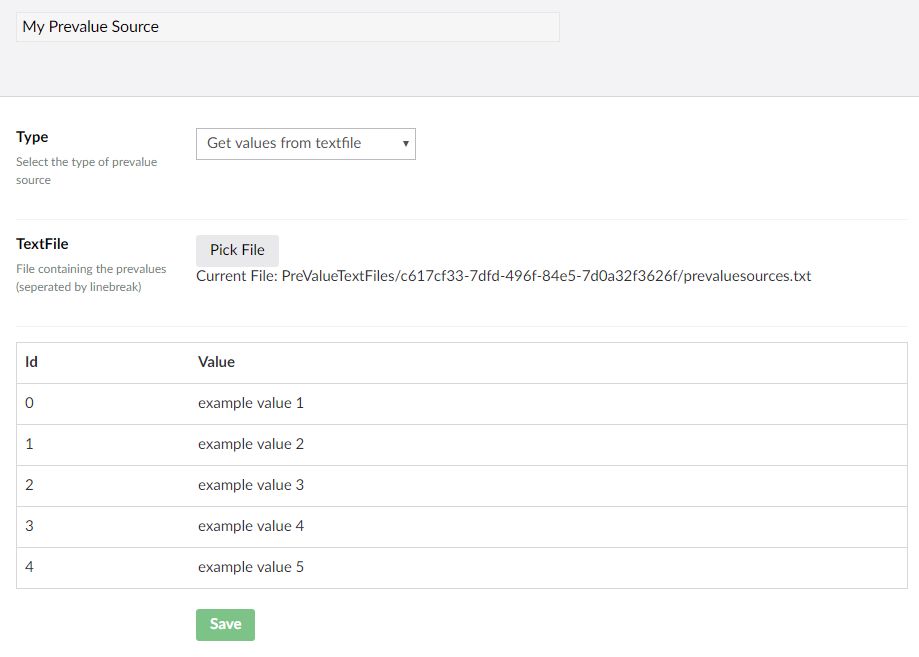
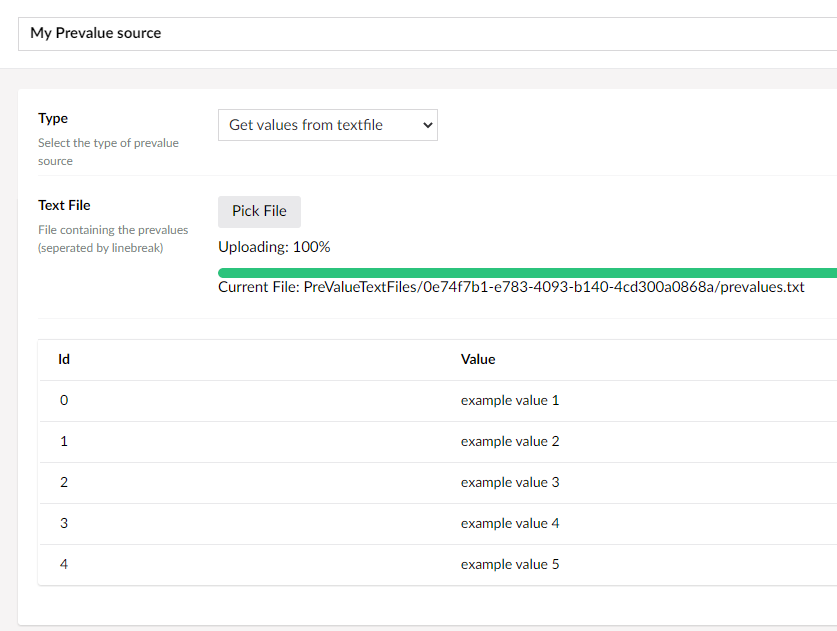
Updated article for v9

diff --git a/Add-ons/UmbracoForms/Editor/Defining-and-Attaching-Prevaluesources/index.md b/Add-ons/UmbracoForms/Editor/Defining-and-Attaching-Prevaluesources/index.md
@@ -1,32 +1,34 @@
 ---
 versionFrom: 7.0.0
+versionTo: 9.0.0
 ---
 
-# Defining and attaching prevalue sources
+# Defining and Attaching Prevalue Sources
 
-Prevalue sources are a way to pre-define and/or retrieve a list of items from a certain source. They can be used in any fieldtypes that include some kind of list, like Dropdown and Multiple / Single Choice lists.
+Prevalue sources are a way to pre-define and/or retrieve a list of items from a certain source. They can be added in any field types that include some kind of list like Dropdown and Multiple/Single Choice lists.
 
-## Setting up a prevalue source
+## Setting up a Prevalue Source
 
-Prevalue sources can be managed in the corresponding part of the Umbraco Forms section
+Prevalue sources can be managed in the **Prevalue sources** folder available in the **Forms** section.
 
 ![Prevalue source tree](images/prevaluesourcetree.png)
 
-Right-click the prevalue source tree and select create. You will see a new page where you'll need to setup and configure your prevalue source.
+To set a prevalue source:
 
-After setting a name, you need to select the type of prevalue source you'll want to use. An overview of the different default types can be found in the [Prevalue source types](Prevalue-source-types) article.
+1. Navigate to the Forms section.
+2. Right-click the **Prevalue sources** folder and select **Create**.
+3. A new page opens in the right-side of the editor where you'll need to setup and configure your prevalue source.
+4. Enter a **Name**.
+5. Select the type of prevalue source from the **Type** drop-down. For more information on the different default types, see the [Overview of the Prevalue Source Types](Prevalue-source-types) article.
+    ![Choose type](images/choosetype.png)
 
-![Choose type](images/choosetype.png)
+### Configuring the Prevalue Source
 
-### Configure the prevalue source
+Depending on the Type you choose, you'll need to provide some additional settings:
 
-Depending on the type you choose, you'll need to provide some additional settings.
-
-In this walk-through we will choose `Get values from textfile`:
-
-![Type settings](images/typesettings.png)
-
-We need to provide a file containing the list we want to use as prevalues. This could be a `.txt` file containing the following:
+1. In this walk-through, we will select **Get values from textfile** from the **Type** drop-down.
+    ![Type settings](images/typesettings.png)
+2. We need to provide a file containing the list we want to use as prevalues. This could be a `.txt` file containing the following:
 
     example value 1
     example value 2
@@ -34,20 +36,23 @@ We need to provide a file containing the list we want to use as prevalues. This 
     example value 4
     example value 5
 
-Once the settings are populated, save the prevalue source by hitting the Save button. If the settings are successfully validated and they return results, you will be able to see an overview of the values.
+3. Select **Pick File** and choose the text file you just created.
+4. Once the text file is uploaded, click **Save** to save the prevalue source.
+5. If the file is successfully uploaded and validated, you will see an overview of the values in a tabular format.
+    ![Preview](images/preview.png)
 
-![Preview](images/preview.png)
+## Attaching a Prevalue Source to a Field
 
-## Attaching a prevalue source to a field
+Once a prevalue source has been created, we can now use it while building Forms in the Forms designer.
 
-Once a prevalue source has been created, we can now use it when building forms in the Forms designer.
-
-The example below is the settings for a Multiple Choice fieldtype. When there is at least one prevalue source defined in your project, the Prevalues section will contain a dropdown from where you can choose to use a prevalue source.
+The example below shows the settings for a Multiple Choice field type. If there is at least one prevalue source defined in your project, the Prevalues section will contain a dropdown from where you can choose to use a prevalue source.
 
 ![Prevalue source](images/FieldPrevalueSource.png)
 
-Once you have chosen the prevalue source you want, you will see a render of the field in the Forms designer using the values from the attached source.
+Once you have selected the prevalue source, the values are rendered in the Forms designer from the attached source.
 
 ![Preview](images/fieldpreview.png)
 
-## [Overview of the default prevalue source types](Prevalue-source-types)
+---
+
+Prev: [Viewing and Exporting Entries](../Viewing-and-Exporting-Entries/index.md) &emsp; &emsp; &emsp; &emsp; &emsp; &emsp; &emsp; &emsp; Next: [Overview of the Prevalue Source Types](/Prevalue-source-types/index.md)

diff --git a/Add-ons/UmbracoForms/Editor/Viewing-and-Exporting-Entries/index.md b/Add-ons/UmbracoForms/Editor/Viewing-and-Exporting-Entries/index.md
@@ -33,7 +33,7 @@ To export all the entries from your Form:
     ![Export all dialog](images/ExportAllDialog.png)
 5. Click **Done**.
 
-## Record Actions
+## Recording Actions
 
 When selecting entries, it is possible to execute Actions. To select an entry, click anywhere on the entry.
 
